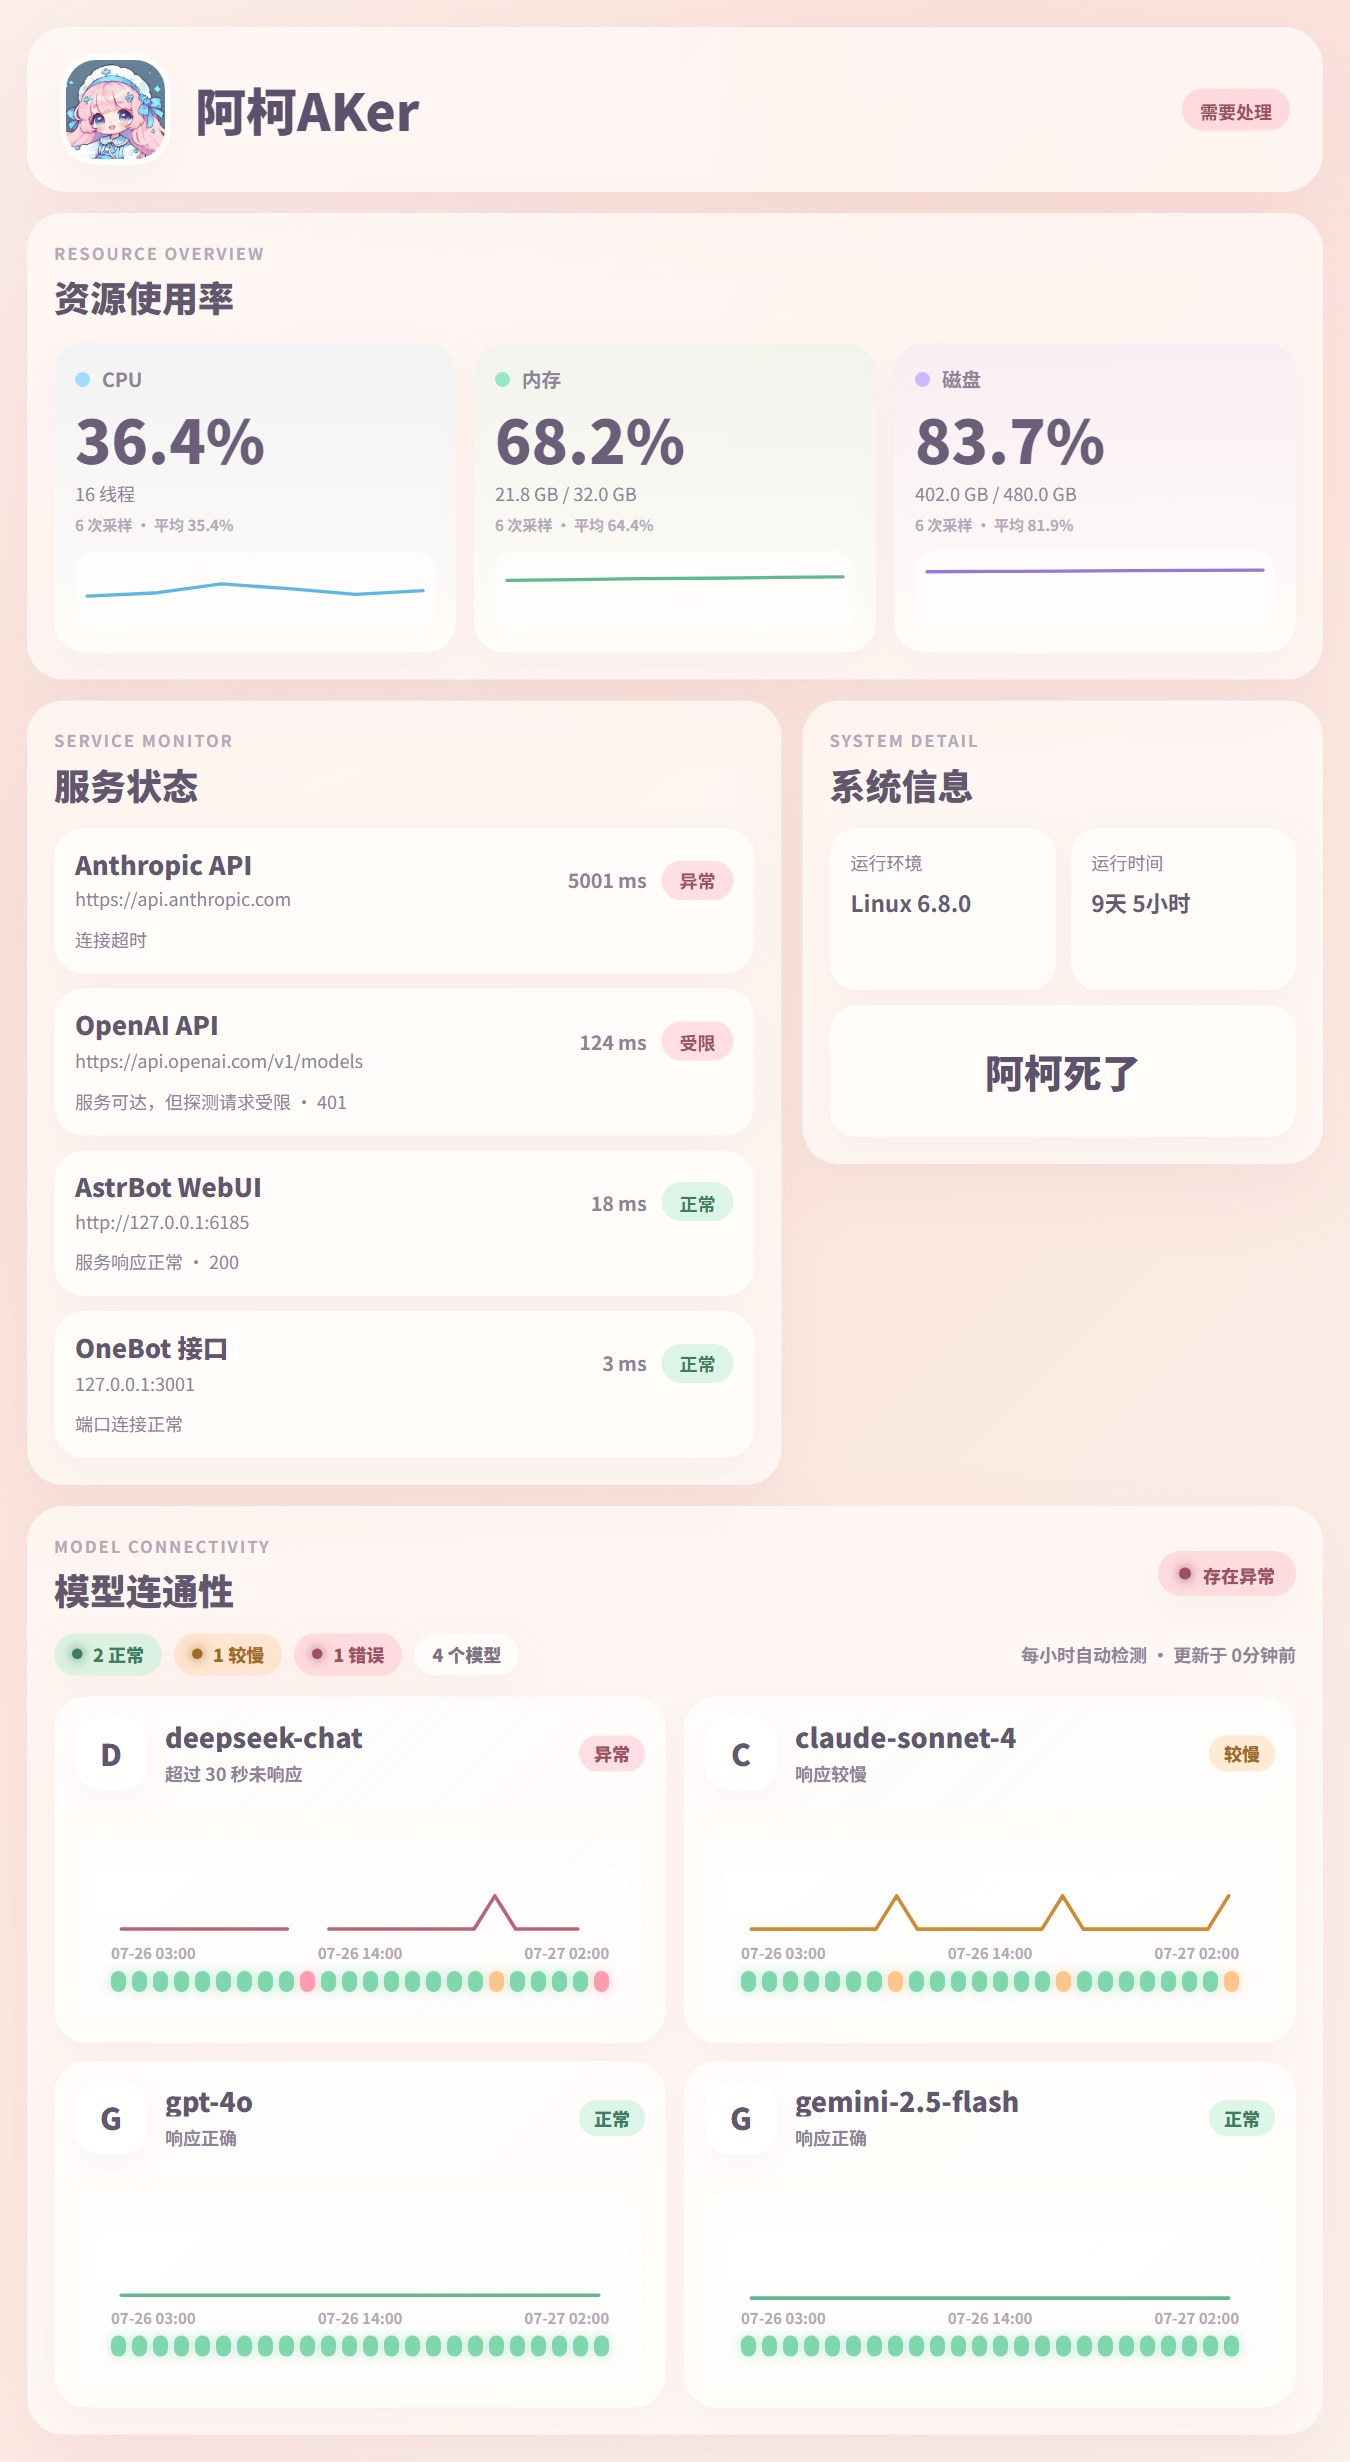
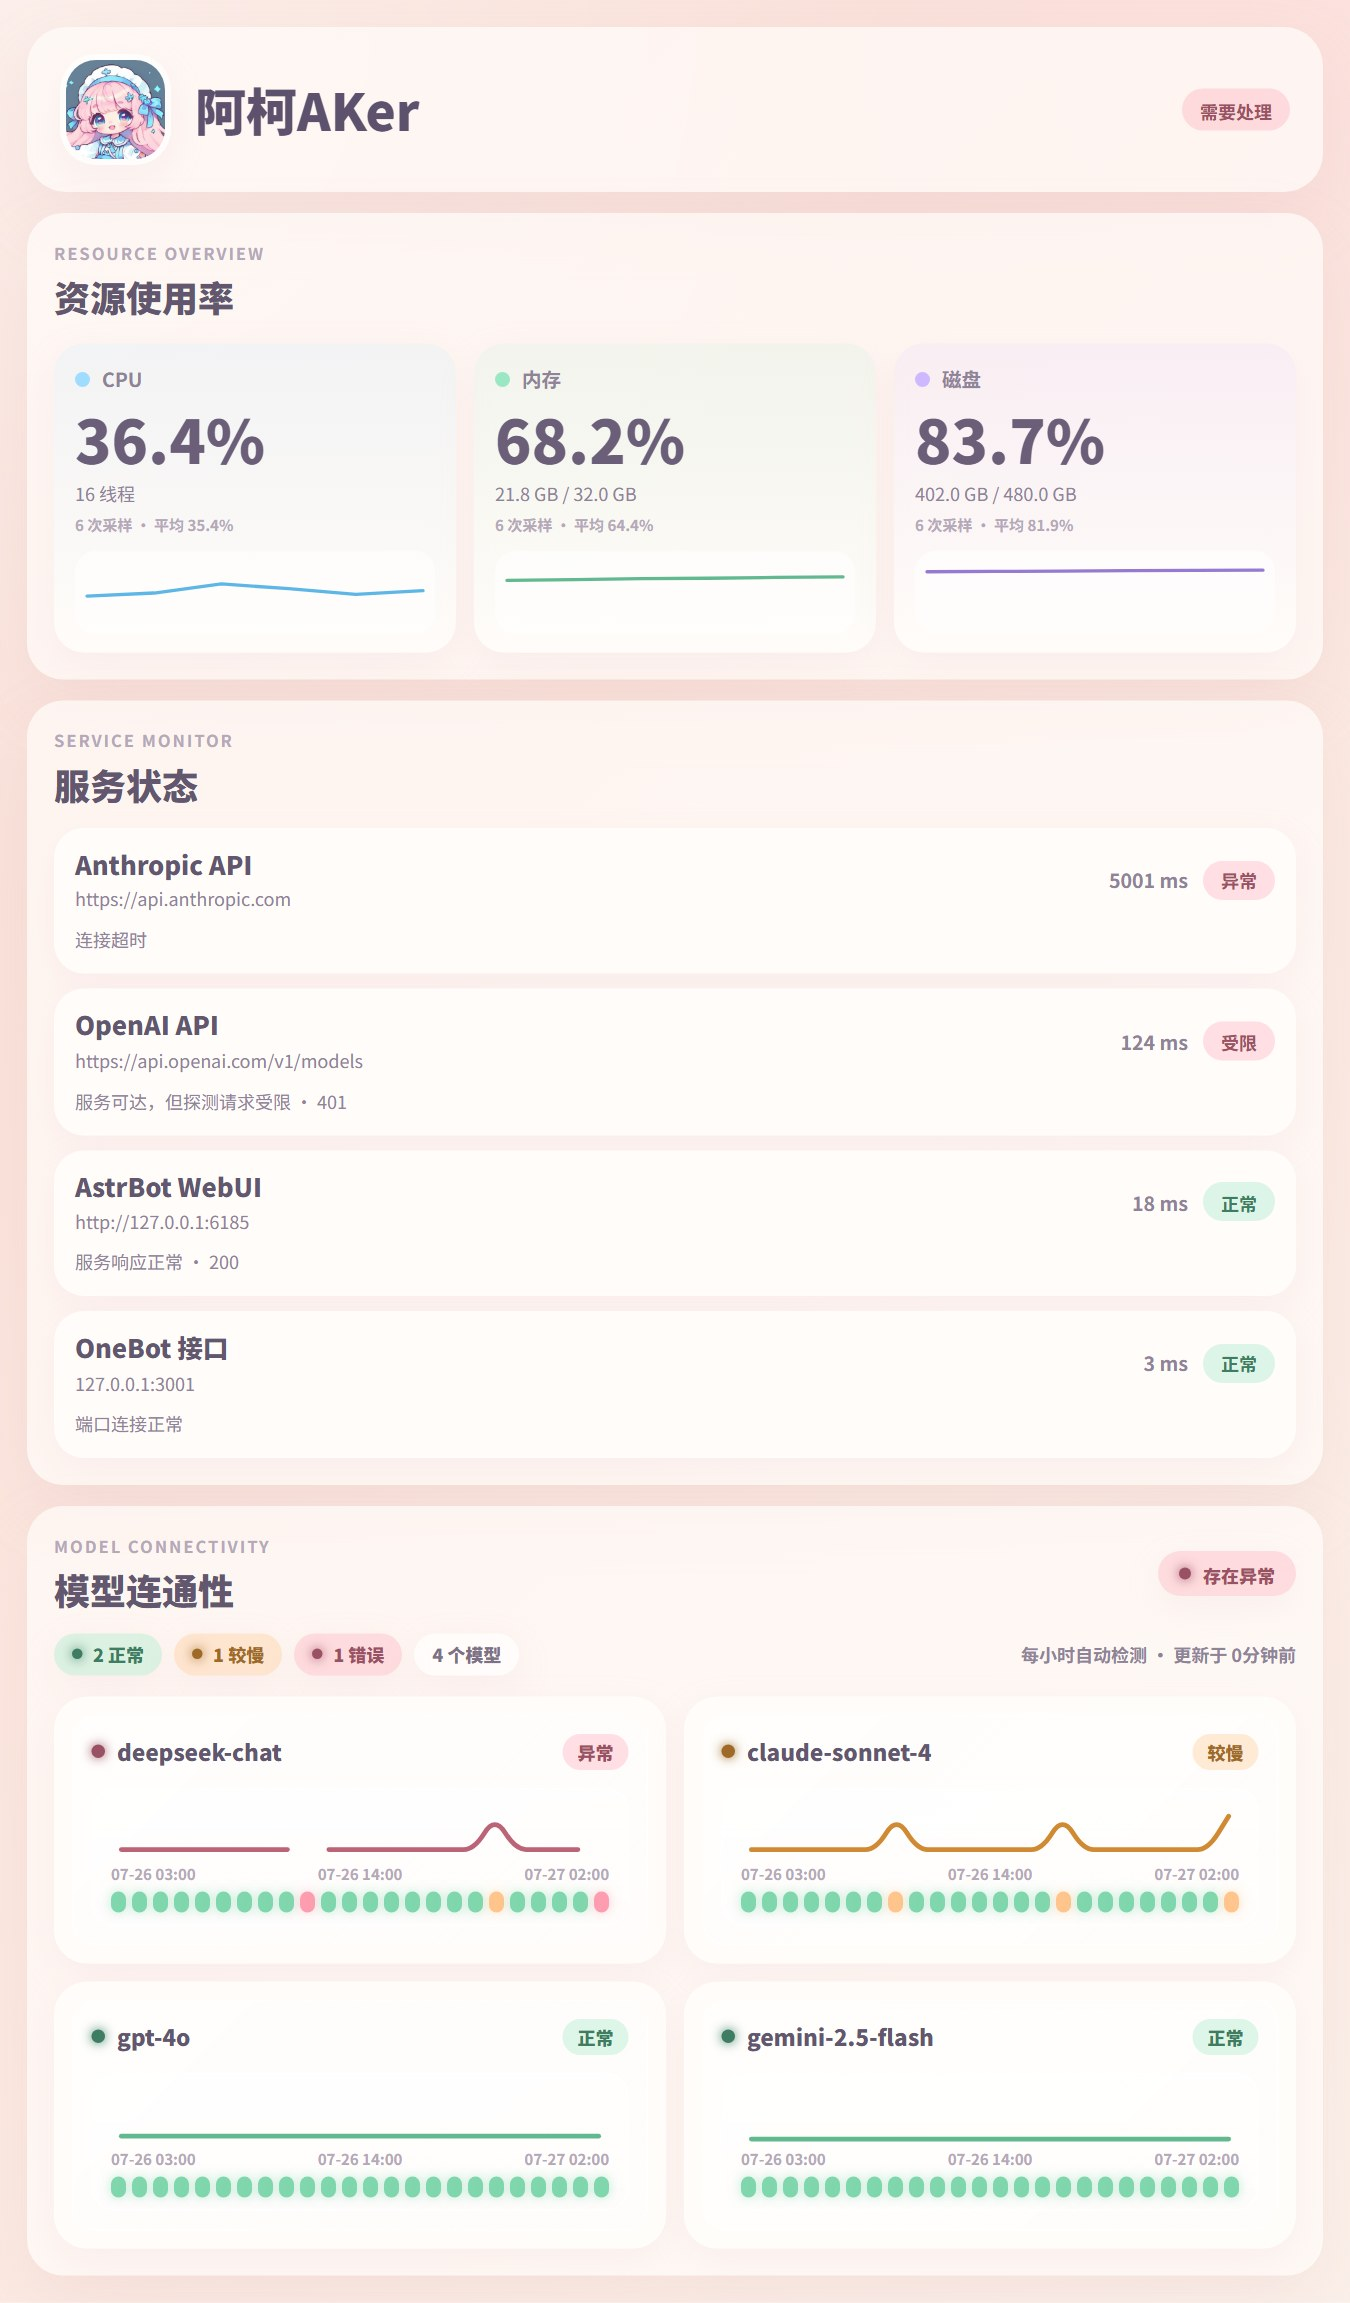
refactor(ui): 优化模型延迟曲线显示并调整布局
1.  添加平滑曲线生成函数，将折线转换为二次贝塞尔曲线弱化尖锐拐点
2.  调整模型卡片布局，移除冗余头部结构改用更紧凑的样式
3.  合并服务监控和系统详情面板为单个容器
4.  增大模型曲线线条宽度提升可读性

diff --git a/output_test.html b/output_test.html
@@ -822,7 +822,7 @@ body {
 
 .model-curve-line {
 	fill: none;
-	stroke-width: 2.4;
+	stroke-width: 3.2;
 	stroke-linecap: round;
 	stroke-linejoin: round;
 	vector-effect: non-scaling-stroke;
@@ -997,8 +997,7 @@ body {
   </div>
 </div>
 
-        <div class="monitor-group">
-  <section class="panel-card services-panel">
+        <section class="panel-card services-panel">
     <div class="section-head compact">
       <div>
         <div class="section-kicker">Service Monitor</div>
@@ -1067,30 +1066,7 @@ body {
         </div>
       </article>
     </div>
-  </section>
-
-  <section class="panel-card details-panel">
-    <div class="section-head compact">
-      <div>
-        <div class="section-kicker">System Detail</div>
-        <h2 class="section-title">系统信息</h2>
-      </div>
-    </div>
-    <div class="info-grid">
-      <div class="info-item">
-        <div class="info-label">运行环境</div>
-        <div class="info-value">Linux 6.8.0</div>
-      </div>
-      <div class="info-item">
-        <div class="info-label">运行时间</div>
-        <div class="info-value">9天 5小时</div>
-      </div>
-      <div class="info-item info-summary">
-        <div class="info-summary-text">阿柯死了</div>
-      </div>
-    </div>
-  </section>
-</div>
+</section>
 
         <section class="panel-card model-panel">
   <div class="section-head compact">
@@ -1114,20 +1090,19 @@ body {
 
   <div class="model-provider-grid">
     <article class="model-provider-card">
-      <header class="model-provider-head">
-        <div class="model-provider-mark">D</div>
-        <div class="model-provider-info">
-          <div class="model-provider-name">deepseek-chat</div>
-          <div class="model-provider-sub">超过 30 秒未响应</div>
-        </div>
-        <div class="model-provider-badge model-status-error">异常</div>
-      </header>
       <div class="model-row-list">
         <div class="model-row-card model-row-error">
+          <div class="model-row-top">
+            <div class="model-name-wrap">
+              <span class="model-dot model-dot-error"></span>
+              <span class="model-name-text">deepseek-chat</span>
+            </div>
+            <span class="model-status-badge model-status-error">异常</span>
+          </div>
           <div class="model-curve-box">
             <svg class="model-curve" viewBox="0 0 100 40" preserveAspectRatio="none" aria-label="deepseek-chat 延迟历史">
-              <polyline points="2.08,29.11 6.25,29.11 10.42,29.11 14.58,29.11 18.75,29.11 22.92,29.11 27.08,29.11 31.25,29.11 35.42,29.11" class="model-curve-line model-curve-error"></polyline>
-              <polyline points="43.75,29.11 47.92,29.11 52.08,29.11 56.25,29.11 60.42,29.11 64.58,29.11 68.75,29.11 72.92,29.11 77.08,9.0 81.25,29.11 85.42,29.11 89.58,29.11 93.75,29.11" class="model-curve-line model-curve-error"></polyline>
+              <path d="M 2.08 29.11 Q 2.08 29.11 4.165 29.11 Q 6.25 29.11 8.335 29.11 Q 10.42 29.11 12.5 29.11 Q 14.58 29.11 16.665 29.11 Q 18.75 29.11 20.835 29.11 Q 22.92 29.11 25 29.11 Q 27.08 29.11 29.165 29.11 Q 31.25 29.11 33.335 29.11 T 35.42 29.11" class="model-curve-line model-curve-error"></path>
+              <path d="M 43.75 29.11 Q 43.75 29.11 45.835 29.11 Q 47.92 29.11 50 29.11 Q 52.08 29.11 54.165 29.11 Q 56.25 29.11 58.335 29.11 Q 60.42 29.11 62.5 29.11 Q 64.58 29.11 66.665 29.11 Q 68.75 29.11 70.835 29.11 Q 72.92 29.11 75 19.055 Q 77.08 9 79.165 19.055 Q 81.25 29.11 83.335 29.11 Q 85.42 29.11 87.5 29.11 Q 89.58 29.11 91.665 29.11 T 93.75 29.11" class="model-curve-line model-curve-error"></path>
             </svg>
             <div class="model-time-axis">
 <span>07-26 03:00</span><span>07-26 14:00</span><span>07-27 02:00</span>            </div>
@@ -1162,19 +1137,18 @@ body {
       </div>
     </article>
     <article class="model-provider-card">
-      <header class="model-provider-head">
-        <div class="model-provider-mark">C</div>
-        <div class="model-provider-info">
-          <div class="model-provider-name">claude-sonnet-4</div>
-          <div class="model-provider-sub">响应较慢</div>
-        </div>
-        <div class="model-provider-badge model-status-slow">较慢</div>
-      </header>
       <div class="model-row-list">
         <div class="model-row-card model-row-slow">
+          <div class="model-row-top">
+            <div class="model-name-wrap">
+              <span class="model-dot model-dot-slow"></span>
+              <span class="model-name-text">claude-sonnet-4</span>
+            </div>
+            <span class="model-status-badge model-status-slow">较慢</span>
+          </div>
           <div class="model-curve-box">
             <svg class="model-curve" viewBox="0 0 100 40" preserveAspectRatio="none" aria-label="claude-sonnet-4 延迟历史">
-              <polyline points="2.08,29.19 6.25,29.19 10.42,29.19 14.58,29.19 18.75,29.19 22.92,29.19 27.08,29.19 31.25,9.0 35.42,29.19 39.58,29.19 43.75,29.19 47.92,29.19 52.08,29.19 56.25,29.19 60.42,29.19 64.58,9.0 68.75,29.19 72.92,29.19 77.08,29.19 81.25,29.19 85.42,29.19 89.58,29.19 93.75,29.19 97.92,9.0" class="model-curve-line model-curve-slow"></polyline>
+              <path d="M 2.08 29.19 Q 2.08 29.19 4.165 29.19 Q 6.25 29.19 8.335 29.19 Q 10.42 29.19 12.5 29.19 Q 14.58 29.19 16.665 29.19 Q 18.75 29.19 20.835 29.19 Q 22.92 29.19 25 29.19 Q 27.08 29.19 29.165 19.095 Q 31.25 9 33.335 19.095 Q 35.42 29.19 37.5 29.19 Q 39.58 29.19 41.665 29.19 Q 43.75 29.19 45.835 29.19 Q 47.92 29.19 50 29.19 Q 52.08 29.19 54.165 29.19 Q 56.25 29.19 58.335 29.19 Q 60.42 29.19 62.5 19.095 Q 64.58 9 66.665 19.095 Q 68.75 29.19 70.835 29.19 Q 72.92 29.19 75 29.19 Q 77.08 29.19 79.165 29.19 Q 81.25 29.19 83.335 29.19 Q 85.42 29.19 87.5 29.19 Q 89.58 29.19 91.665 29.19 Q 93.75 29.19 95.835 19.095 T 97.92 9" class="model-curve-line model-curve-slow"></path>
             </svg>
             <div class="model-time-axis">
 <span>07-26 03:00</span><span>07-26 14:00</span><span>07-27 02:00</span>            </div>
@@ -1209,19 +1183,18 @@ body {
       </div>
     </article>
     <article class="model-provider-card">
-      <header class="model-provider-head">
-        <div class="model-provider-mark">G</div>
-        <div class="model-provider-info">
-          <div class="model-provider-name">gpt-4o</div>
-          <div class="model-provider-sub">响应正确</div>
-        </div>
-        <div class="model-provider-badge model-status-ok">正常</div>
-      </header>
       <div class="model-row-list">
         <div class="model-row-card model-row-ok">
+          <div class="model-row-top">
+            <div class="model-name-wrap">
+              <span class="model-dot model-dot-ok"></span>
+              <span class="model-name-text">gpt-4o</span>
+            </div>
+            <span class="model-status-badge model-status-ok">正常</span>
+          </div>
           <div class="model-curve-box">
             <svg class="model-curve" viewBox="0 0 100 40" preserveAspectRatio="none" aria-label="gpt-4o 延迟历史">
-              <polyline points="2.08,30.12 6.25,30.12 10.42,30.12 14.58,30.12 18.75,30.12 22.92,30.12 27.08,30.12 31.25,30.12 35.42,30.12 39.58,30.12 43.75,30.12 47.92,30.12 52.08,30.12 56.25,30.12 60.42,30.12 64.58,30.12 68.75,30.12 72.92,30.12 77.08,30.12 81.25,30.12 85.42,30.12 89.58,30.12 93.75,30.12 97.92,30.12" class="model-curve-line model-curve-ok"></polyline>
+              <path d="M 2.08 30.12 Q 2.08 30.12 4.165 30.12 Q 6.25 30.12 8.335 30.12 Q 10.42 30.12 12.5 30.12 Q 14.58 30.12 16.665 30.12 Q 18.75 30.12 20.835 30.12 Q 22.92 30.12 25 30.12 Q 27.08 30.12 29.165 30.12 Q 31.25 30.12 33.335 30.12 Q 35.42 30.12 37.5 30.12 Q 39.58 30.12 41.665 30.12 Q 43.75 30.12 45.835 30.12 Q 47.92 30.12 50 30.12 Q 52.08 30.12 54.165 30.12 Q 56.25 30.12 58.335 30.12 Q 60.42 30.12 62.5 30.12 Q 64.58 30.12 66.665 30.12 Q 68.75 30.12 70.835 30.12 Q 72.92 30.12 75 30.12 Q 77.08 30.12 79.165 30.12 Q 81.25 30.12 83.335 30.12 Q 85.42 30.12 87.5 30.12 Q 89.58 30.12 91.665 30.12 Q 93.75 30.12 95.835 30.12 T 97.92 30.12" class="model-curve-line model-curve-ok"></path>
             </svg>
             <div class="model-time-axis">
 <span>07-26 03:00</span><span>07-26 14:00</span><span>07-27 02:00</span>            </div>
@@ -1256,19 +1229,18 @@ body {
       </div>
     </article>
     <article class="model-provider-card">
-      <header class="model-provider-head">
-        <div class="model-provider-mark">G</div>
-        <div class="model-provider-info">
-          <div class="model-provider-name">gemini-2.5-flash</div>
-          <div class="model-provider-sub">响应正确</div>
-        </div>
-        <div class="model-provider-badge model-status-ok">正常</div>
-      </header>
       <div class="model-row-list">
         <div class="model-row-card model-row-ok">
+          <div class="model-row-top">
+            <div class="model-name-wrap">
+              <span class="model-dot model-dot-ok"></span>
+              <span class="model-name-text">gemini-2.5-flash</span>
+            </div>
+            <span class="model-status-badge model-status-ok">正常</span>
+          </div>
           <div class="model-curve-box">
             <svg class="model-curve" viewBox="0 0 100 40" preserveAspectRatio="none" aria-label="gemini-2.5-flash 延迟历史">
-              <polyline points="2.08,31.88 6.25,31.88 10.42,31.88 14.58,31.88 18.75,31.88 22.92,31.88 27.08,31.88 31.25,31.88 35.42,31.88 39.58,31.88 43.75,31.88 47.92,31.88 52.08,31.88 56.25,31.88 60.42,31.88 64.58,31.88 68.75,31.88 72.92,31.88 77.08,31.88 81.25,31.88 85.42,31.88 89.58,31.88 93.75,31.88 97.92,31.88" class="model-curve-line model-curve-ok"></polyline>
+              <path d="M 2.08 31.88 Q 2.08 31.88 4.165 31.88 Q 6.25 31.88 8.335 31.88 Q 10.42 31.88 12.5 31.88 Q 14.58 31.88 16.665 31.88 Q 18.75 31.88 20.835 31.88 Q 22.92 31.88 25 31.88 Q 27.08 31.88 29.165 31.88 Q 31.25 31.88 33.335 31.88 Q 35.42 31.88 37.5 31.88 Q 39.58 31.88 41.665 31.88 Q 43.75 31.88 45.835 31.88 Q 47.92 31.88 50 31.88 Q 52.08 31.88 54.165 31.88 Q 56.25 31.88 58.335 31.88 Q 60.42 31.88 62.5 31.88 Q 64.58 31.88 66.665 31.88 Q 68.75 31.88 70.835 31.88 Q 72.92 31.88 75 31.88 Q 77.08 31.88 79.165 31.88 Q 81.25 31.88 83.335 31.88 Q 85.42 31.88 87.5 31.88 Q 89.58 31.88 91.665 31.88 Q 93.75 31.88 95.835 31.88 T 97.92 31.88" class="model-curve-line model-curve-ok"></path>
             </svg>
             <div class="model-time-axis">
 <span>07-26 03:00</span><span>07-26 14:00</span><span>07-27 02:00</span>            </div>

diff --git a/resources/index.css b/resources/index.css
@@ -819,7 +819,7 @@ body {
 
 .model-curve-line {
 	fill: none;
-	stroke-width: 2.4;
+	stroke-width: 3.2;
 	stroke-linecap: round;
 	stroke-linejoin: round;
 	vector-effect: non-scaling-stroke;

diff --git a/presentation/view.py b/presentation/view.py
@@ -228,9 +228,26 @@ def _model_history_chart(slots: list[dict[str, Any]], slow_ms: int) -> dict[str,
     return {
         "slots": slots,                                   # 24 格完整表达正常、慢、失败和缺测
         "curve_segments": segments,                       # 延迟线绝不跨越未知或失败小时
+        "curve_paths": [_smooth_curve_path(segment) for segment in segments], # 圆滑路径弱化尖锐波峰波谷
         "slow_y": slow_y,                                 # 横向阈值线帮助识别延迟恶化
         "time_labels": [_axis_time_text(slots[0]["bucket_start"]), _axis_time_text(slots[11]["bucket_start"]), _axis_time_text(slots[-1]["bucket_start"])],
     }
+
+
+# --- 把连续折线点转换成平滑二次贝塞尔路径 ---
+def _smooth_curve_path(segment: str) -> str:
+    points = [tuple(float(value) for value in point.split(",")) for point in segment.split()]
+    if len(points) < 2:
+        return ""                                          # 单点无法形成趋势曲线
+    commands = [f"M {points[0][0]:g} {points[0][1]:g}"]
+    for index in range(1, len(points)):
+        previous_x, previous_y = points[index - 1]
+        current_x, current_y = points[index]
+        middle_x = (previous_x + current_x) / 2
+        middle_y = (previous_y + current_y) / 2
+        commands.append(f"Q {previous_x:g} {previous_y:g} {middle_x:g} {middle_y:g}")
+    commands.append(f"T {points[-1][0]:g} {points[-1][1]:g}")
+    return " ".join(commands)
 
 
 # --- 验证一条模型历史样本 ---
